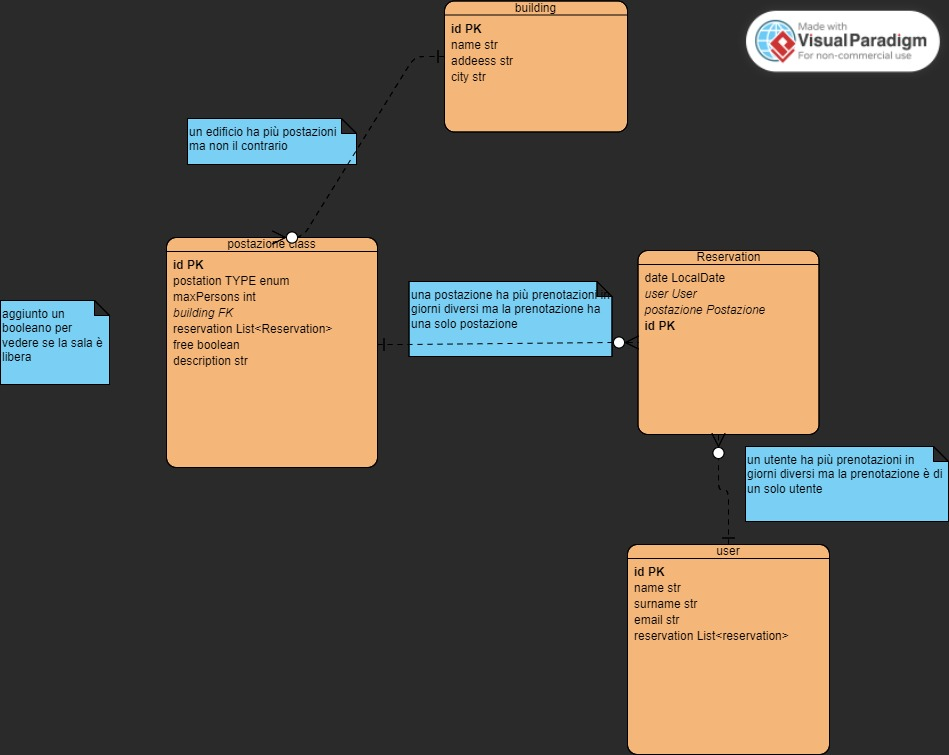
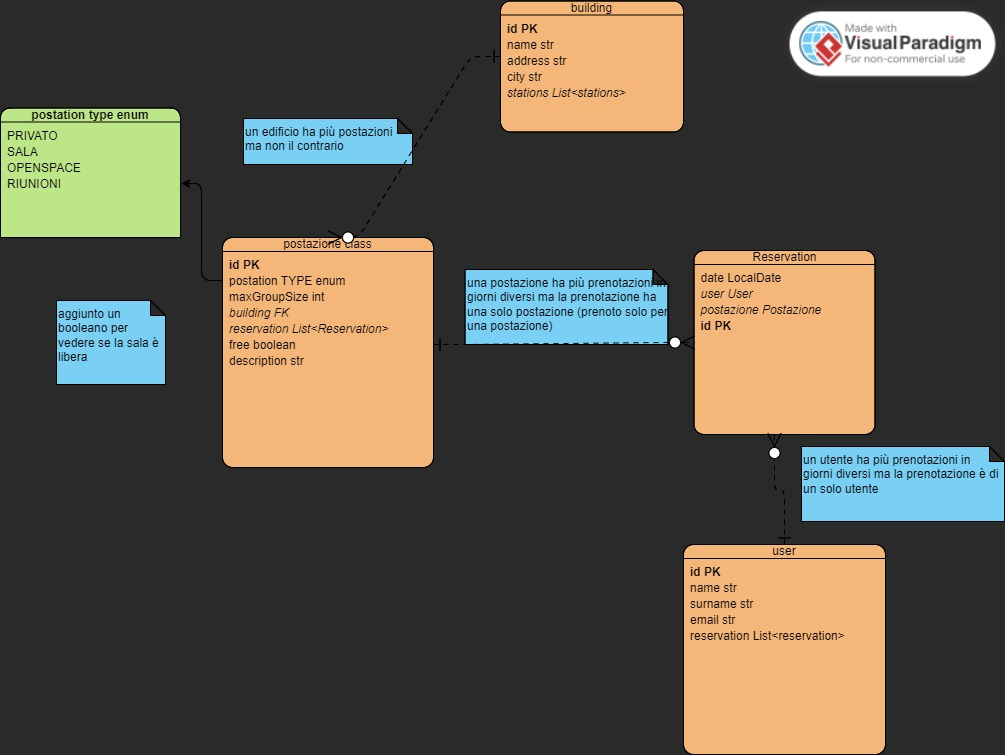
create classi e fixato lo  schema

diff --git a/U5D5/src/main/java/application/U5D5/buildEntities/Station.java b/U5D5/src/main/java/application/U5D5/buildEntities/Station.java
@@ -1,0 +1,30 @@
+package application.U5D5.buildEntities;
+
+
+import application.U5D5.enums.StationType;
+import application.U5D5.userEntities.Reservation;
+import jakarta.persistence.*;
+import lombok.Getter;
+
+import java.util.List;
+
+@Entity
+@Getter
+public class Station {
+    @Id
+    @GeneratedValue
+    private int id;
+    private String description;
+    @Enumerated(EnumType.STRING)
+    private StationType stationType;
+    @ManyToOne
+    @JoinColumn(name = "building_id", nullable = false)
+    private Building building;
+    private boolean isFree;
+    private int maxGroupSize;
+    @OneToMany
+    private List<Reservation> reservations;
+
+
+
+}

diff --git a/U5D5/src/main/java/application/U5D5/buildEntities/Building.java b/U5D5/src/main/java/application/U5D5/buildEntities/Building.java
@@ -1,0 +1,27 @@
+package application.U5D5.buildEntities;
+
+import jakarta.persistence.Entity;
+import jakarta.persistence.GeneratedValue;
+import jakarta.persistence.Id;
+import jakarta.persistence.OneToMany;
+import lombok.Getter;
+import org.springframework.context.annotation.Primary;
+
+import java.util.List;
+
+@Getter
+@Entity
+public class Building {
+    @Id
+    @GeneratedValue
+    private int id;
+    private String name;
+    private String city;
+    private String address;
+    @OneToMany(mappedBy = "building")
+    private List<Station> stations;
+
+
+
+
+}

diff --git a/U5D5/src/main/java/application/U5D5/userEntities/Reservation.java b/U5D5/src/main/java/application/U5D5/userEntities/Reservation.java
@@ -1,0 +1,27 @@
+package application.U5D5.userEntities;
+
+import application.U5D5.buildEntities.Station;
+import jakarta.persistence.*;
+import lombok.Getter;
+
+import java.time.LocalDate;
+import java.util.Date;
+import java.util.Locale;
+
+@Entity
+@Getter
+public class Reservation {
+    @Id
+    @GeneratedValue
+    private int id;
+    private LocalDate date;
+    @ManyToOne
+    @JoinColumn(name = "user_id", nullable = false)
+    private User user;
+    @ManyToOne
+    @JoinColumn(name = "station_id", nullable = false)
+    private Station station;
+
+
+
+}

diff --git a/U5D5/src/main/java/application/U5D5/userEntities/User.java b/U5D5/src/main/java/application/U5D5/userEntities/User.java
@@ -1,0 +1,27 @@
+package application.U5D5.userEntities;
+
+
+import jakarta.persistence.Entity;
+import jakarta.persistence.GeneratedValue;
+import jakarta.persistence.Id;
+import jakarta.persistence.OneToMany;
+import lombok.Getter;
+
+import java.util.List;
+
+@Getter
+@Entity
+public class User {
+    @Id
+    @GeneratedValue
+    private int id;
+    private String name;
+    private String lastName;
+    private String email;
+    private String surname;
+
+    @OneToMany(mappedBy = "user")
+    private List<Reservation> listOfReservations;
+
+
+}

diff --git a/U5D5/src/main/java/application/U5D5/enums/StationType.java b/U5D5/src/main/java/application/U5D5/enums/StationType.java
@@ -1,0 +1,8 @@
+package application.U5D5.enums;
+
+public enum StationType {
+    PRIVATO,
+    SALA,
+    OPENSPACE,
+    RIUNIONI
+}
